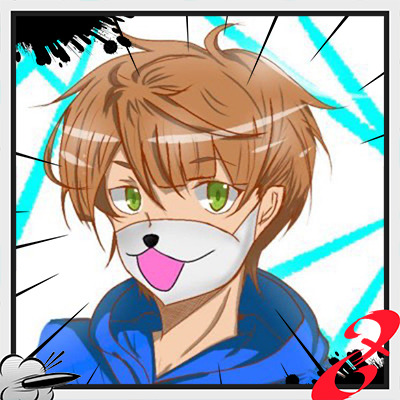
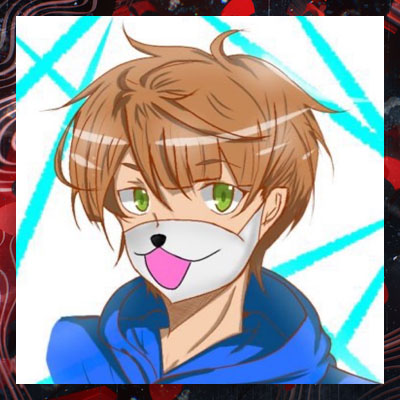
色々追加

diff --git a/src/pages/Contact.tsx b/src/pages/Contact.tsx
@@ -1,14 +1,44 @@
-import React from "react";
+import React, { useState } from "react";
 import layoutStyles from "../layouts/Layout.module.css";
 
 const Contact: React.FC = () => {
+  const [showMail, setShowMail] = useState(false);
+
   return (
     <div style={{ padding: "2rem", textAlign: "center" }}>
       <h1 className={layoutStyles.sloganTitle}>CONTACT</h1>
-      <p>お問い合わせ・ご連絡はこちらからどうぞ。</p>
-      <a href="mailto:info@pnz-team.com" className={layoutStyles.btn} style={{ marginTop: "2rem" }}>
-        メールで問い合わせ
-      </a>
+      <p>お問い合わせ・ご連絡は「ぶんた」のX（DM）またはメールのどちらかにどうぞ。</p>
+      <div
+        style={{
+          display: "flex",
+          justifyContent: "center",
+          gap: "2rem",
+          marginTop: "2.5rem",
+        }}
+      >
+        <a
+          href="https://x.com/Buntapex"
+          target="_blank"
+          rel="noopener noreferrer"
+          className={layoutStyles.btn}
+        >
+          X（DM）で問い合わせ
+          <span className={layoutStyles.btn__label}>TEAM PNZ</span>
+        </a>
+        <a
+          href="mailto:sns.bunta@gmail.com"
+          className={layoutStyles.btn}
+          onClick={() => setShowMail(true)}
+          style={
+            showMail
+              ? { fontFamily: "03SmartFontUI, sans-serif", letterSpacing: "0.03em" }
+              : undefined
+          }
+        >
+          {showMail ? "sns.bunta@gmail.com" : "メールで問い合わせ"}
+          <span className={layoutStyles.btn__label}>TEAM PNZ</span>
+        </a>
+      </div>
     </div>
   );
 };

diff --git a/src/pages/Project.tsx b/src/pages/Project.tsx
@@ -1,5 +1,17 @@
+import layoutStyles from "../layouts/Layout.module.css";
+
 const Project = () => {
-  return <div>PROJECTページ</div>;
+  return (
+    <div style={{ display: 'flex', flexDirection: 'column', justifyContent: 'center', alignItems: 'center', height: '60vh', fontSize: '1.5rem', color: '#e53935', textAlign: 'center' }}>
+      <div>
+        Currently under construction.<br />Please wait for the release.
+      </div>
+      <a href="/" className={layoutStyles.btn} style={{ marginTop: '2rem' }}>
+        TOPに戻る
+        <span className={layoutStyles.btn__label}>TEAM PNZ</span>
+      </a>
+    </div>
+  );
 };
 
 export default Project;

diff --git a/src/layouts/Layout.tsx b/src/layouts/Layout.tsx
@@ -38,7 +38,7 @@ const Layout = ({ children }: { children: ReactNode }) => {
           <a href="/project" className={styles.navLink}>PROJECT</a>
           <a href="/member" className={styles.navLink}>MEMBER</a>
           <a href="/newslist" className={styles.navLink}>NEWS</a>
-          <a href="/sponsor" className={styles.navLink}>SPONSOR</a>
+          {/* <a href="/sponsor" className={layoutStyles.headerNavLink}>SPONSOR</a> */}
     <Link to="/contact" className={styles.navLink}>CONTACT</Link>
     </nav>
       </header>

diff --git a/index.html b/index.html
@@ -7,6 +7,9 @@
   <link rel="apple-touch-icon" href="/apple-touch-icon.png" sizes="180x180" />
   <meta name="viewport" content="width=device-width, initial-scale=1.0" />
   <title>TEAM PNZ</title>
+  <meta property="og:image" content="/mainimage.png" />
+  <meta name="twitter:card" content="summary_large_image" />
+  <meta name="twitter:image" content="/mainimage.png" />
   </head>
   <body>
     <div id="root"></div>
